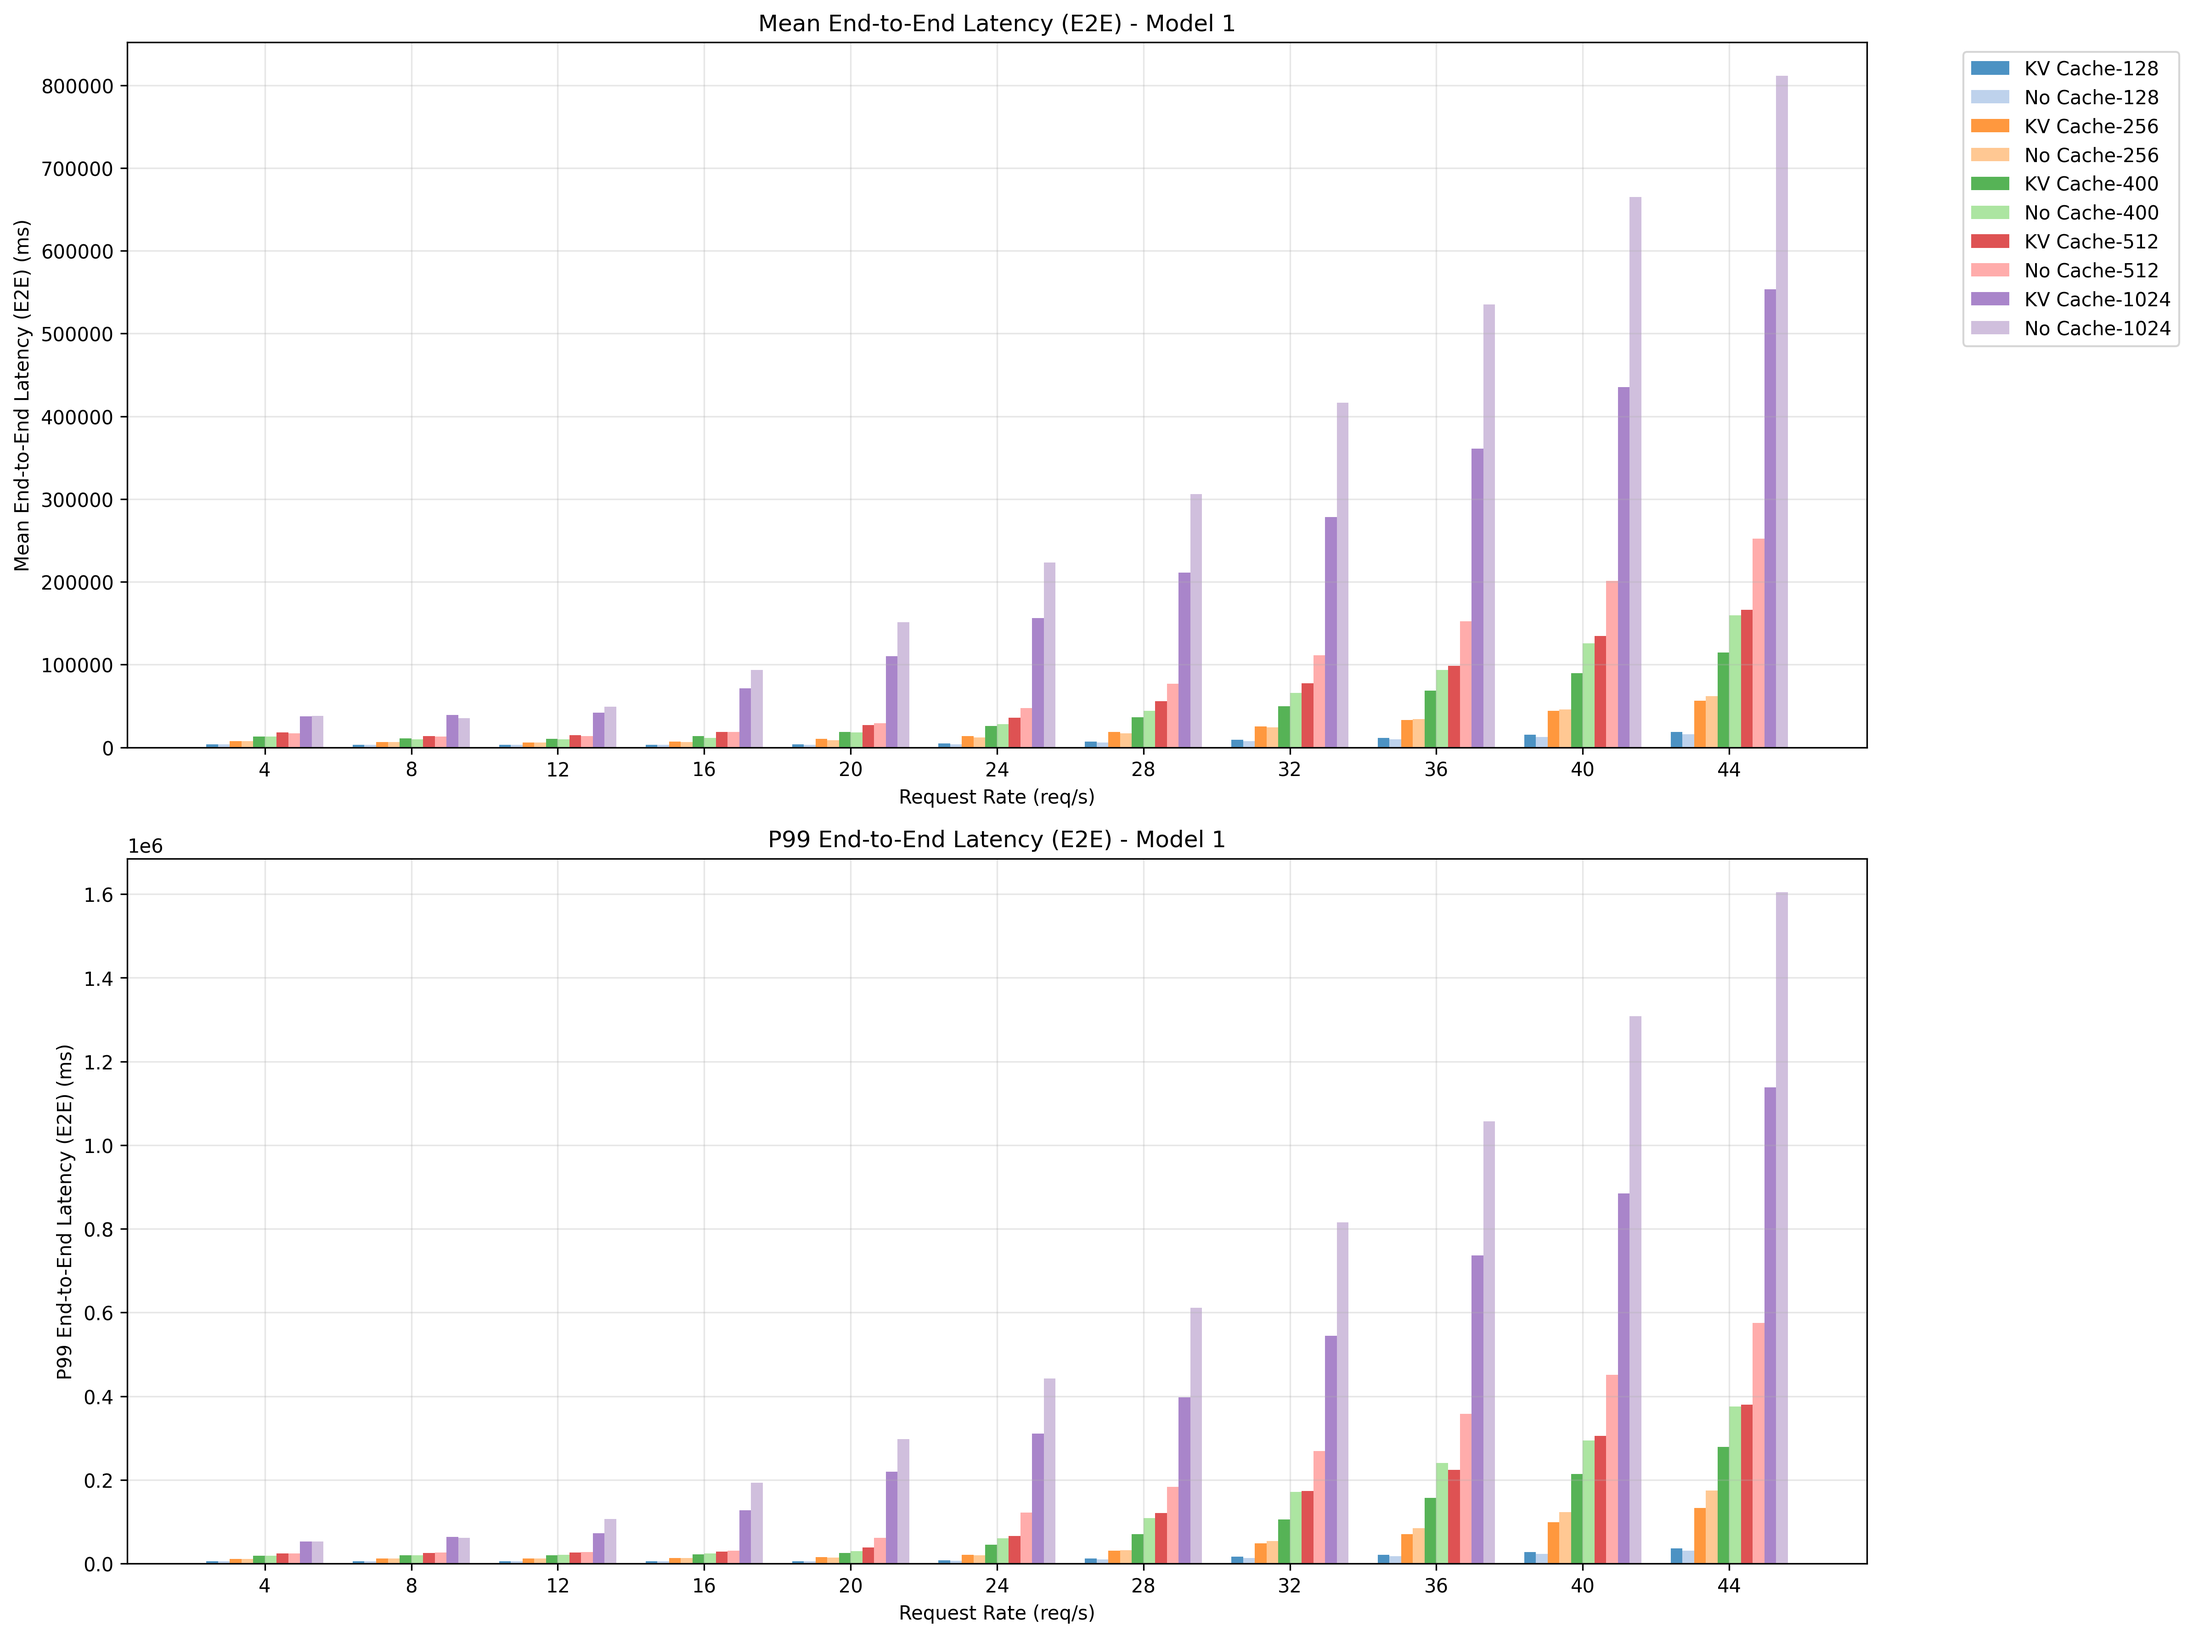
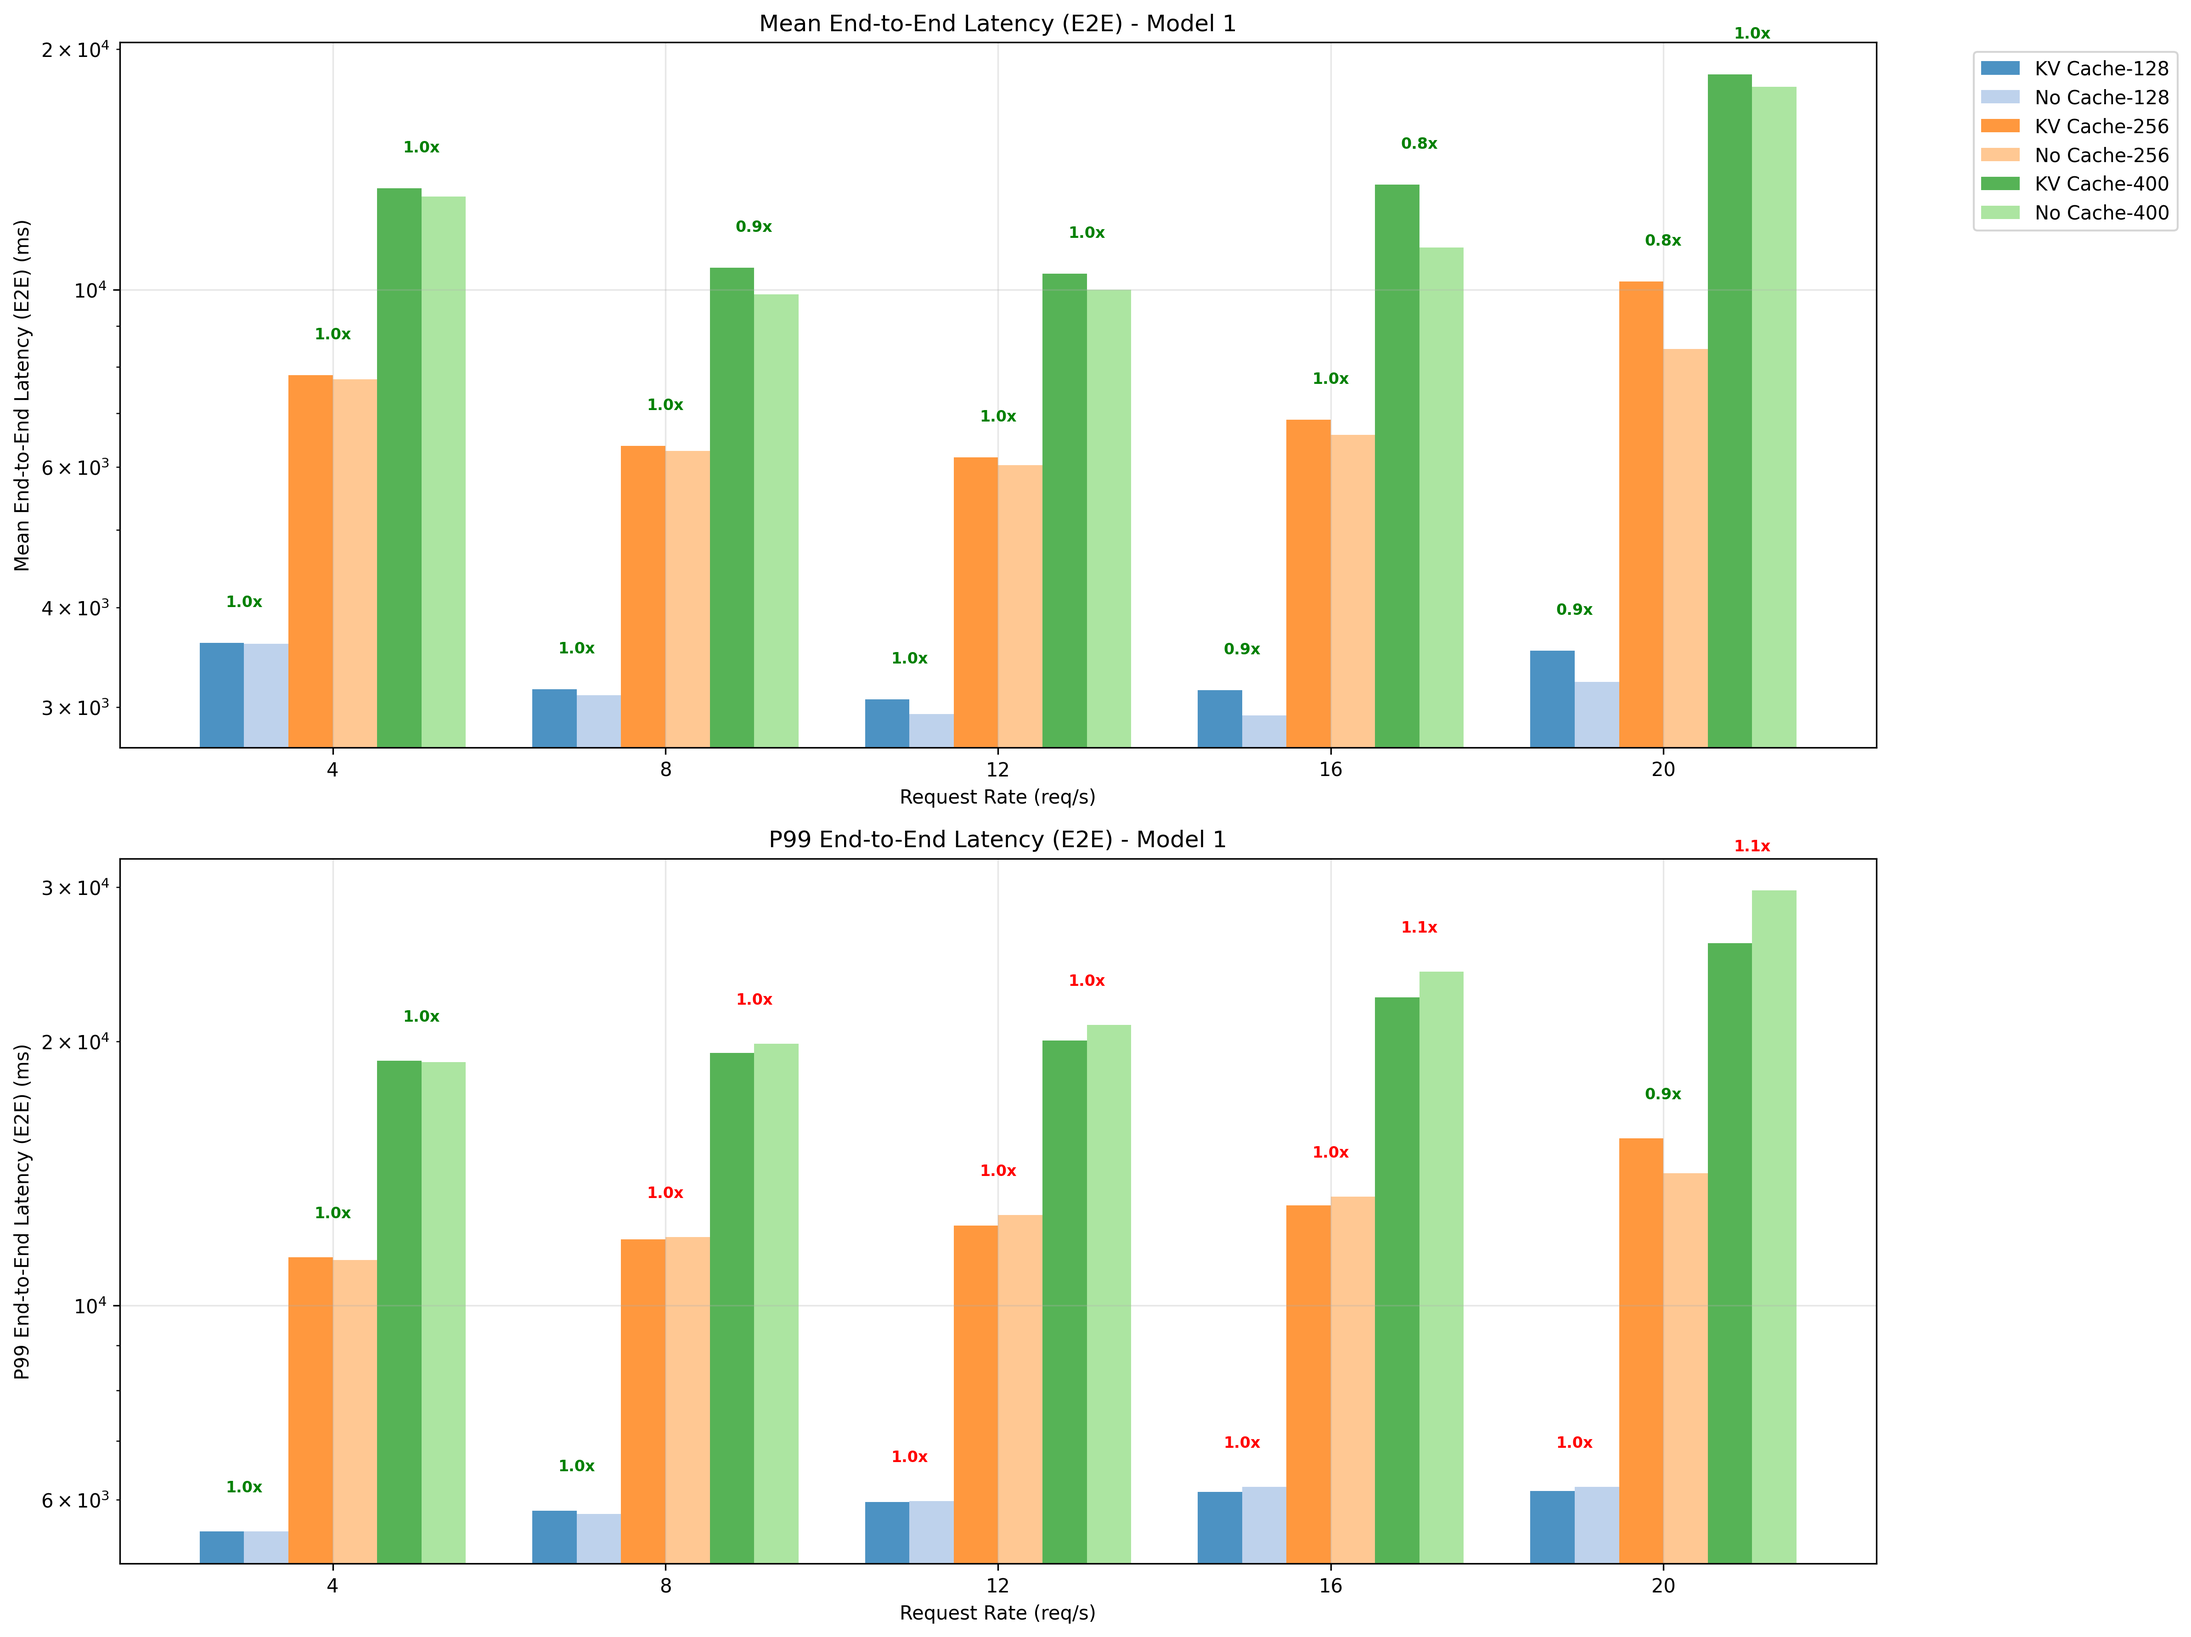
update: figures

diff --git a/benchmarks/bench_latency_benefit/plot_metrics.py b/benchmarks/bench_latency_benefit/plot_metrics.py
@@ -91,8 +91,8 @@ def create_charts(data):
         (['mean_e2el_ms', 'p99_e2el_ms'], 'End-to-End Latency (E2E)', 'e2el')
     ]
 
-    completion_lens = [128, 256, 400, 512, 1024]
-    reqrates = [4, 8, 12, 16, 20, 24, 28, 32, 36, 40, 44]  # Fixed reqrates
+    completion_lens = [128, 256, 400]
+    reqrates = [4, 8, 12, 16, 20]  # Fixed reqrates
 
     # Get all unique model_ids (1, 2, 3)
     model_ids = set()
@@ -115,9 +115,9 @@ def create_charts(data):
                 bar_width = 0.8 / n_completion_lens
                 x_positions = np.arange(len(reqrates))
 
-                # Colors for true/false pairs
-                colors_true = ['#1f77b4', '#ff7f0e', '#2ca02c', '#d62728', '#9467bd']
-                colors_false = ['#aec7e8', '#ffbb78', '#98df8a', '#ff9896', '#c5b0d5']
+                # # Colors for true/false pairs
+                # colors_true = ['#1f77b4', '#ff7f0e', '#2ca02c', '#d62728', '#9467bd']
+                # colors_false = ['#aec7e8', '#ffbb78', '#98df8a', '#ff9896', '#c5b0d5']
 
                 for comp_idx, comp_len in enumerate(completion_lens):
                     true_values = []
@@ -147,12 +147,23 @@ def create_charts(data):
                     # Calculate positions for grouped bars
                     offset = (comp_idx - n_completion_lens/2 + 0.5) * bar_width
 
-                    ax.bar(x_positions + offset - bar_width/4, true_values,
-                           bar_width/2, label=f'KV Cache-{comp_len}',
-                           color=colors_true[comp_idx], alpha=0.8)
-                    ax.bar(x_positions + offset + bar_width/4, false_values,
-                           bar_width/2, label=f'No Cache-{comp_len}',
-                           color=colors_false[comp_idx], alpha=0.8)
+                    # bars_true = ax.bar(x_positions + offset - bar_width/4, true_values,
+                    #                   bar_width/2, label=f'KV Cache-{comp_len}',
+                    #                   color=colors_true[comp_idx], alpha=0.8)
+                    # bars_false = ax.bar(x_positions + offset + bar_width/4, false_values,
+                    #                    bar_width/2, label=f'No Cache-{comp_len}',
+                    #                    color=colors_false[comp_idx], alpha=0.8)
+
+                    # Add gain annotations (false/true ratio)
+                    for i, (true_val, false_val) in enumerate(zip(true_values, false_values)):
+                        if true_val > 0 and false_val > 0:
+                            gain = false_val / true_val
+                            # Position text above the higher bar
+                            y_pos = max(true_val, false_val) * 1.1
+                            ax.text(x_positions[i] + offset, y_pos, f'{gain:.1f}x',
+                                   ha='center', va='bottom', fontsize=8,
+                                   color='red' if gain > 1 else 'green',
+                                   fontweight='bold')
 
                 # Configure subplot
                 metric_type = 'Mean' if 'mean' in metric else 'P99'
@@ -161,6 +172,7 @@ def create_charts(data):
                 ax.set_title(f'{metric_type} {metric_display_name} - Model {model_id}')
                 ax.set_xticks(x_positions)
                 ax.set_xticklabels(reqrates)
+                ax.set_yscale('log')  # Set y-axis to log scale
                 if subplot_idx == 0:  # Only show legend on first subplot
                     ax.legend(bbox_to_anchor=(1.05, 1), loc='upper left')
                 ax.grid(True, alpha=0.3)
